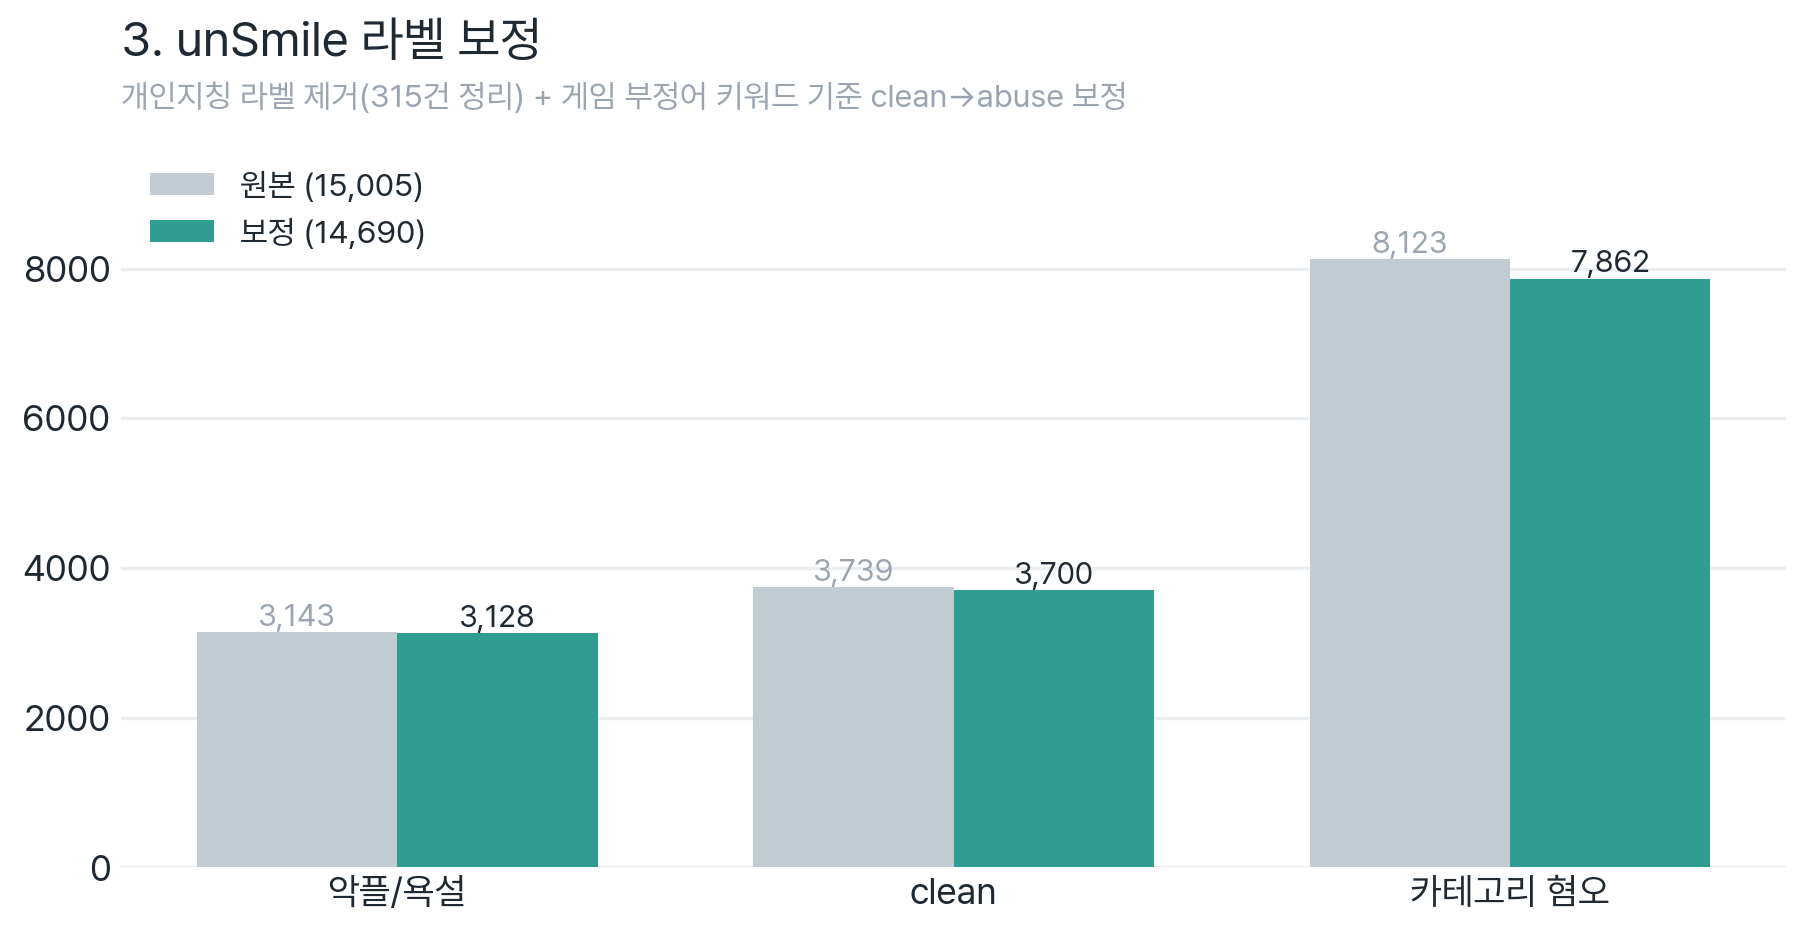
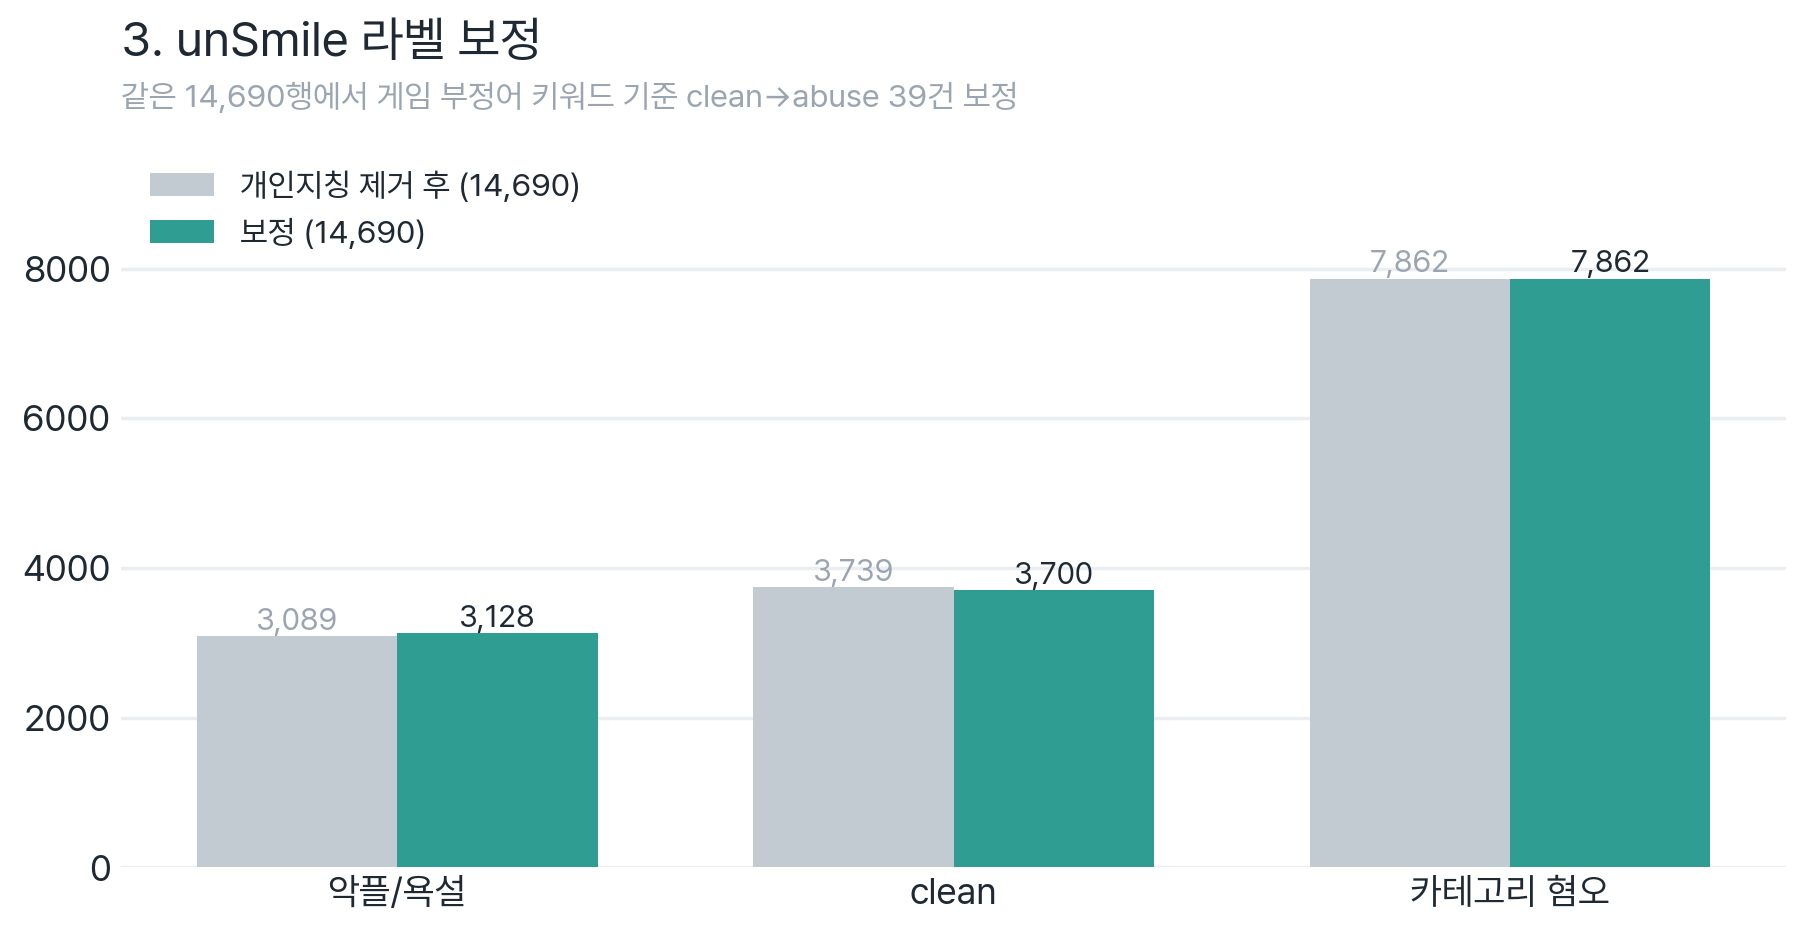
[AI] fix: 2·5단계 baseline·파인튜닝 시각화 정합성 보정

diff --git a/make_stage_visuals.py b/make_stage_visuals.py
@@ -62,10 +62,10 @@ def stage0():
 # ── Stage 3: unSmile 보정 전후 ─────────────────────────────────────────
 def stage3():
     cats = ["악플/욕설", "clean", "카테고리 혐오"]
-    before = [3143, 3739, 8123]; after = [3128, 3700, 7862]
+    before = [3089, 3739, 7862]; after = [3128, 3700, 7862]
     x = np.arange(len(cats)); w = 0.36
     fig, ax = plt.subplots(figsize=(8.8, 5.0)); fig.subplots_adjust(left=0.10, right=0.96, top=0.78, bottom=0.12)
-    ax.bar(x-w/2, before, w, color=SECONDARY, label="원본 (15,005)", zorder=3)
+    ax.bar(x-w/2, before, w, color=SECONDARY, label="개인지칭 제거 후 (14,690)", zorder=3)
     ax.bar(x+w/2, after, w, color=PRIMARY, label="보정 (14,690)", zorder=3)
     for xi, (b, a) in enumerate(zip(before, after)):
         ax.text(xi-w/2, b+90, f"{b:,}", ha="center", fontsize=10, color=SUB)
@@ -73,7 +73,7 @@ def stage3():
     ax.set_xticks(x); ax.set_xticklabels(cats, fontsize=12)
     ax.set_ylim(0, 9700); despine(ax); ax.yaxis.grid(True, color=GRID, lw=1.1, zorder=0); ax.set_axisbelow(True)
     ax.legend(loc="upper left", frameon=False, fontsize=10.5)
-    title(ax, "3. unSmile 라벨 보정", "개인지칭 라벨 제거(315건 정리) + 게임 부정어 키워드 기준 clean→abuse 보정")
+    title(ax, "3. unSmile 라벨 보정", "같은 14,690행에서 게임 부정어 키워드 기준 clean→abuse 39건 보정")
     save(fig, str(ROOT/"3_UnSmile_Correction/results/correction_ko.png"))
 
 # ── Stage 4: LoRA vs Full FT ───────────────────────────────────────────
@@ -103,6 +103,27 @@ def stage4():
         {"KcELECTRA": [85.41, 87.90], "kcbert": [80.96, 83.27]},
         {"KcELECTRA": [80.24, 87.90], "kcbert": [74.60, 86.29]},
         "4_LoRA_Fine_Tuning/results/lora_models_ko.png")
+
+
+def stage4_training_curve():
+    ep = list(range(1, 11))
+    tr = [0.3207, 0.2294, 0.1520, 0.1336, 0.1193, 0.1131, 0.1060, 0.1078, 0.1013, 0.1032]
+    va = [0.273981, 0.175130, 0.143568, 0.133208, 0.122073, 0.116931, 0.119880, 0.116324, 0.114371, 0.114944]
+    lrap = [0.585884, 0.813355, 0.845140, 0.860402, 0.875845, 0.883432, 0.879030, 0.882829, 0.887409, 0.886291]
+    fig, ax = plt.subplots(figsize=(9.0, 5.0)); fig.subplots_adjust(left=0.10, right=0.90, top=0.78, bottom=0.12)
+    ax.plot(ep, tr, "-o", color=ACCENT, lw=2.2, label="Training Loss", zorder=3)
+    ax.plot(ep, va, "-o", color=PRIMARY, lw=2.4, label="Validation Loss", zorder=3)
+    ax.set_xlabel("Epoch"); ax.set_ylabel("Loss"); ax.set_xticks(ep); ax.set_ylim(0, 0.36)
+    despine(ax, keep=()); ax.yaxis.grid(True, color=GRID, lw=1.1, zorder=0); ax.set_axisbelow(True)
+    ax2 = ax.twinx(); ax2.plot(ep, lrap, "--s", color=SLATE, lw=1.8, label="LRAP(valid)", zorder=2)
+    ax2.set_ylabel("LRAP", color=SLATE); ax2.set_ylim(0.4, 1.0); ax2.tick_params(length=0)
+    for s in ax2.spines.values(): s.set_visible(False)
+    l1,la1=ax.get_legend_handles_labels(); l2,la2=ax2.get_legend_handles_labels()
+    ax.legend(l1+l2, la1+la2, loc="center right", frameon=False, fontsize=10.5)
+    title(ax, "4. LoRA Fine-Tuning 학습 곡선 (LoRA v2 KcELECTRA)",
+          "10 epoch, LoRA r=16, Loss 안정 수렴, valid LRAP 0.89까지 상승")
+    save(fig, str(ROOT/"4_LoRA_Fine_Tuning/results/training_curve_ko.png"))
+
 
 # ── Stage 5: Full FT 학습 곡선 ─────────────────────────────────────────
 def stage5():
@@ -153,5 +174,5 @@ def stage7():
     save(fig, str(ROOT/"7_Best_Model_Selection/results/final_selection_ko.png"))
 
 if __name__ == "__main__":
-    stage0(); stage3(); stage4(); stage5(); stage5_models(); stage7()
+    stage0(); stage3(); stage4(); stage4_training_curve(); stage5(); stage5_models(); stage7()
     print("done")

diff --git a/2_Baseline_Test/README.md b/2_Baseline_Test/README.md
@@ -11,7 +11,7 @@
 - **모델**: `smilegate-ai/kor_unsmile` (파인튜닝 전 원본)
 - **데이터**: `../0_Data_Collection/datasets/test_set.tsv` (482 · abuse 248 / clean 234)
 - **abuse 판정**: not-clean(clean이 아니면 부정어, 9개 라벨 max sigmoid > **0.5**), 배포와 Step 6, Step 8과 **동일 정의**
-- ※ multi-label(sigmoid)이라 각 라벨이 독립 → 임계값은 `1/10`(softmax)이 아니라 라벨별 **0.5**(sigmoid Yes/No)가 비교 기준. 실제 배포는 더 낮게 캘리브레이션(8단계)
+- ※ multi-label(sigmoid)이라 각 라벨이 독립 → 임계값은 `1/10`(softmax)이 아니라 라벨별 **0.5**(sigmoid Yes/No)가 비교 기준. 운영 임계값은 별도 캘리브레이션 대상이지만, 현재 권장 압축 산출물인 FP16은 0.5 기준 성능을 그대로 보존합니다.
 
 ## 📊 결과, base unSmile on test_set(482)
 
@@ -29,6 +29,7 @@
 | **Actual Abuse** | **99 (FN)** | 149 (TP) |
 
 > Step 1의 UnSmile 행과 **정확히 동일**(R 60.08 / P 96.13 / F1 73.95 / FP 6 / FN 99), 같은 모델·데이터·정의.
+> 단, Step 1의 큰 선정 숫자 **AP 91.94**는 threshold-free 랭킹 지표라 이 표의 Recall/F1과 직접 비교하는 값이 아닙니다. Step 6의 **LRAP 0.8869**도 10개 라벨 전체 순위를 보는 다른 threshold-free 지표입니다.
 
 ## 🎯 핵심, "before"이자 파인튜닝의 동기
 

diff --git a/4_LoRA_Fine_Tuning/README.md b/4_LoRA_Fine_Tuning/README.md
@@ -4,6 +4,10 @@ LoRA (Low-Rank Adaptation) 기반 Parameter-Efficient Fine-Tuning
 
 ![LoRA 파인튜닝: base 2종(KcELECTRA·kcbert) × 데이터 v1/v2](results/lora_models_ko.png)
 
+![LoRA Fine-Tuning 학습 곡선 (LoRA v2 KcELECTRA)](results/training_curve_ko.png)
+
+> 첫 그래프는 `test_set.tsv` 기준 4개 LoRA 모델 비교이고, 두 번째 그래프는 LoRA v2 KcELECTRA의 validation 학습 로그입니다.
+
 > 📖 **파인튜닝 동기(threshold 딜레마)·전체 파이프라인 흐름** → [AI 파이프라인 개요](../AI_파이프라인_개요.md)
 
 ## 📁 디렉토리 구조

diff --git a/5_Full_Fine_Tuning/README.md b/5_Full_Fine_Tuning/README.md
@@ -6,6 +6,8 @@ Full Fine-tuning 기반 모든 파라미터 학습
 
 ![Full Fine-Tuning 학습 곡선 (Full v2 KcELECTRA)](results/training_curve_ko.png)
 
+> 첫 그래프는 `test_set.tsv` 기준 4개 Full FT 모델 비교이고, 두 번째 그래프는 Full v2 KcELECTRA의 validation 학습 로그입니다.
+
 > 📖 **파인튜닝 동기(threshold 딜레마)·전체 파이프라인 흐름** → [AI 파이프라인 개요](../AI_파이프라인_개요.md)
 
 ## 📁 디렉토리 구조
